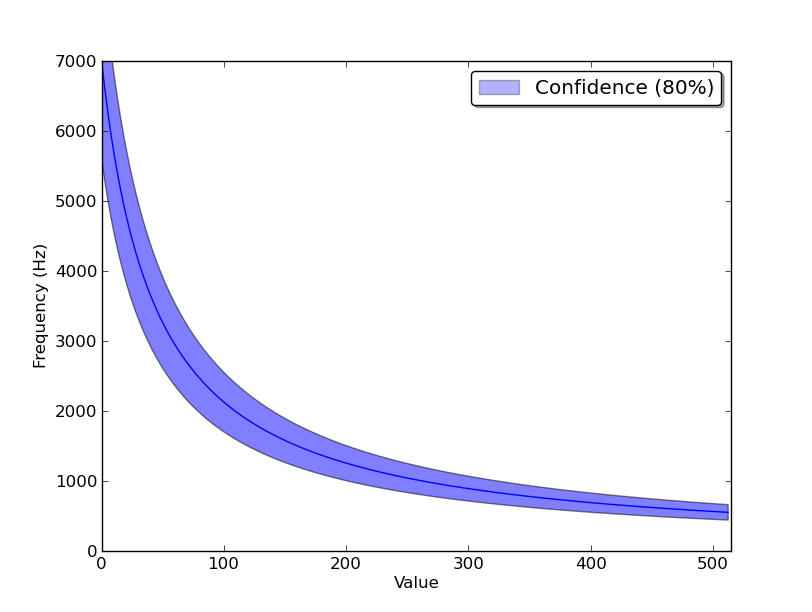
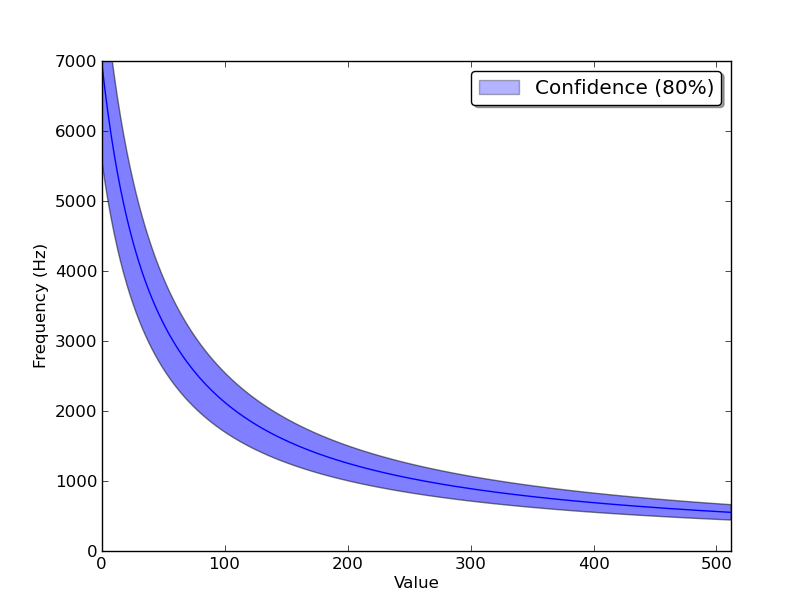
Fix max frequency value for graph

diff --git a/software/graph/make_graph.py b/software/graph/make_graph.py
@@ -16,7 +16,7 @@ for i in range (17, 218):
     y_low.append(value_y*CONFIDENCE)
     y_high.append(value_y*(2-CONFIDENCE))
 
-    x.append((i-17)*(515.00)/(218-17))
+    x.append((i-17)*(512.00)/(217-17))
 
 fig, ax = plt.subplots(1, sharex=True, sharey=True)
 
@@ -31,7 +31,7 @@ b1 = plt.bar(np.array([1,2])-.2,
              alpha=0.3) 
 plt.legend([b1[0]], ['Confidence (80%)'], shadow=True, fancybox=True, numpoints=1) 
 
-plt.axis([0, 515, 0, 7002])
+plt.axis([0, 512, 0, y[0]])
 plt.ylabel('Frequency (Hz)')
 plt.xlabel('Value')
 plt.show()
